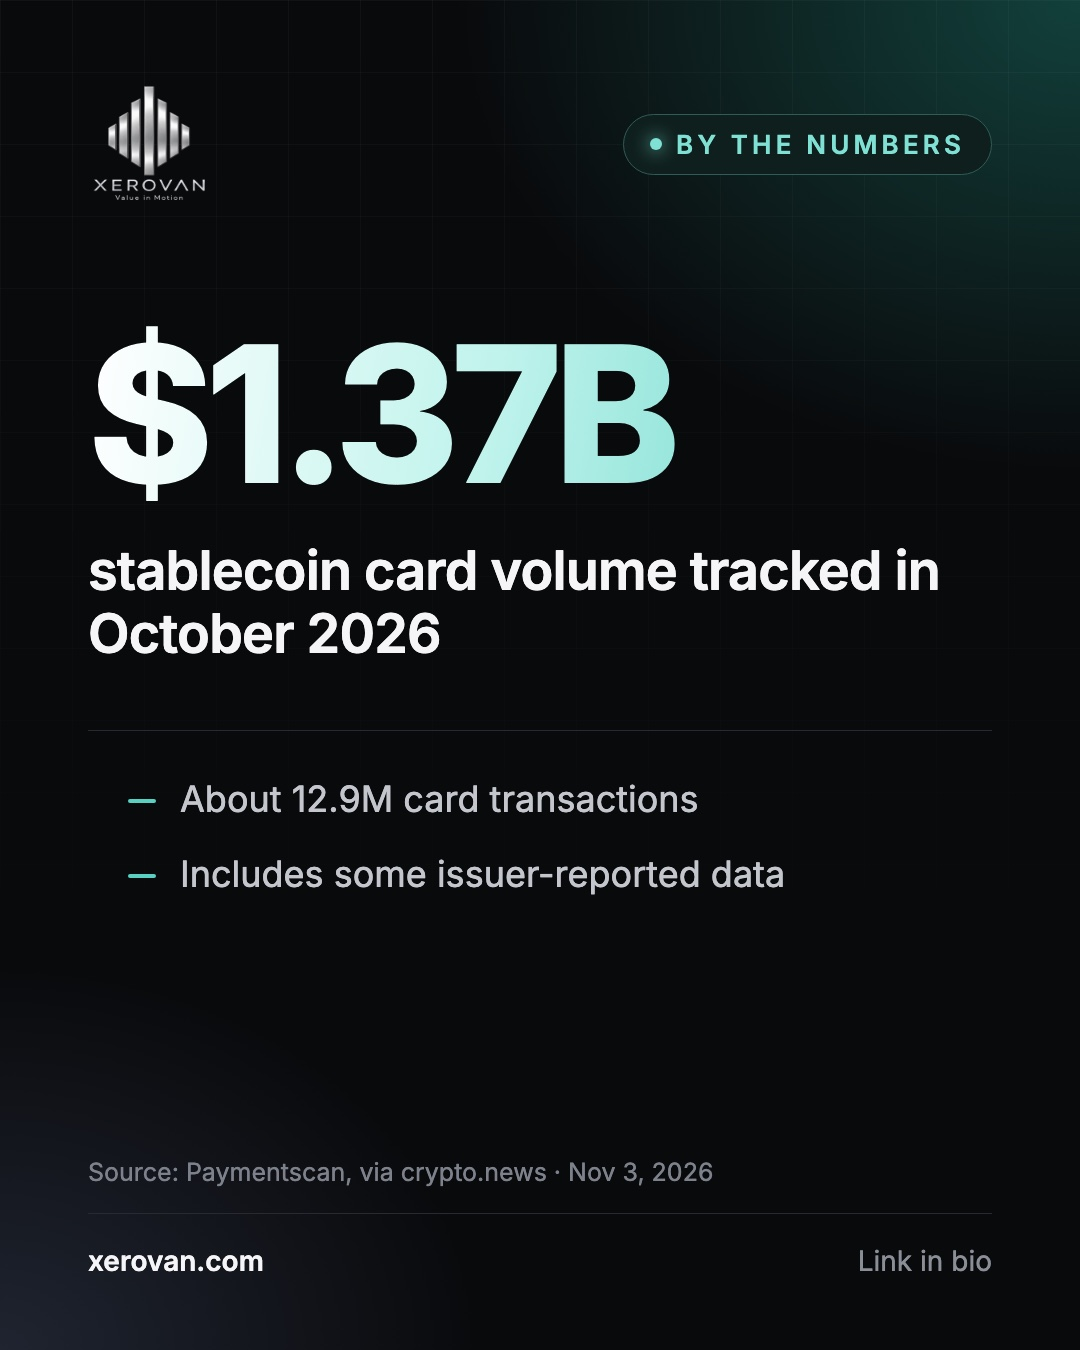
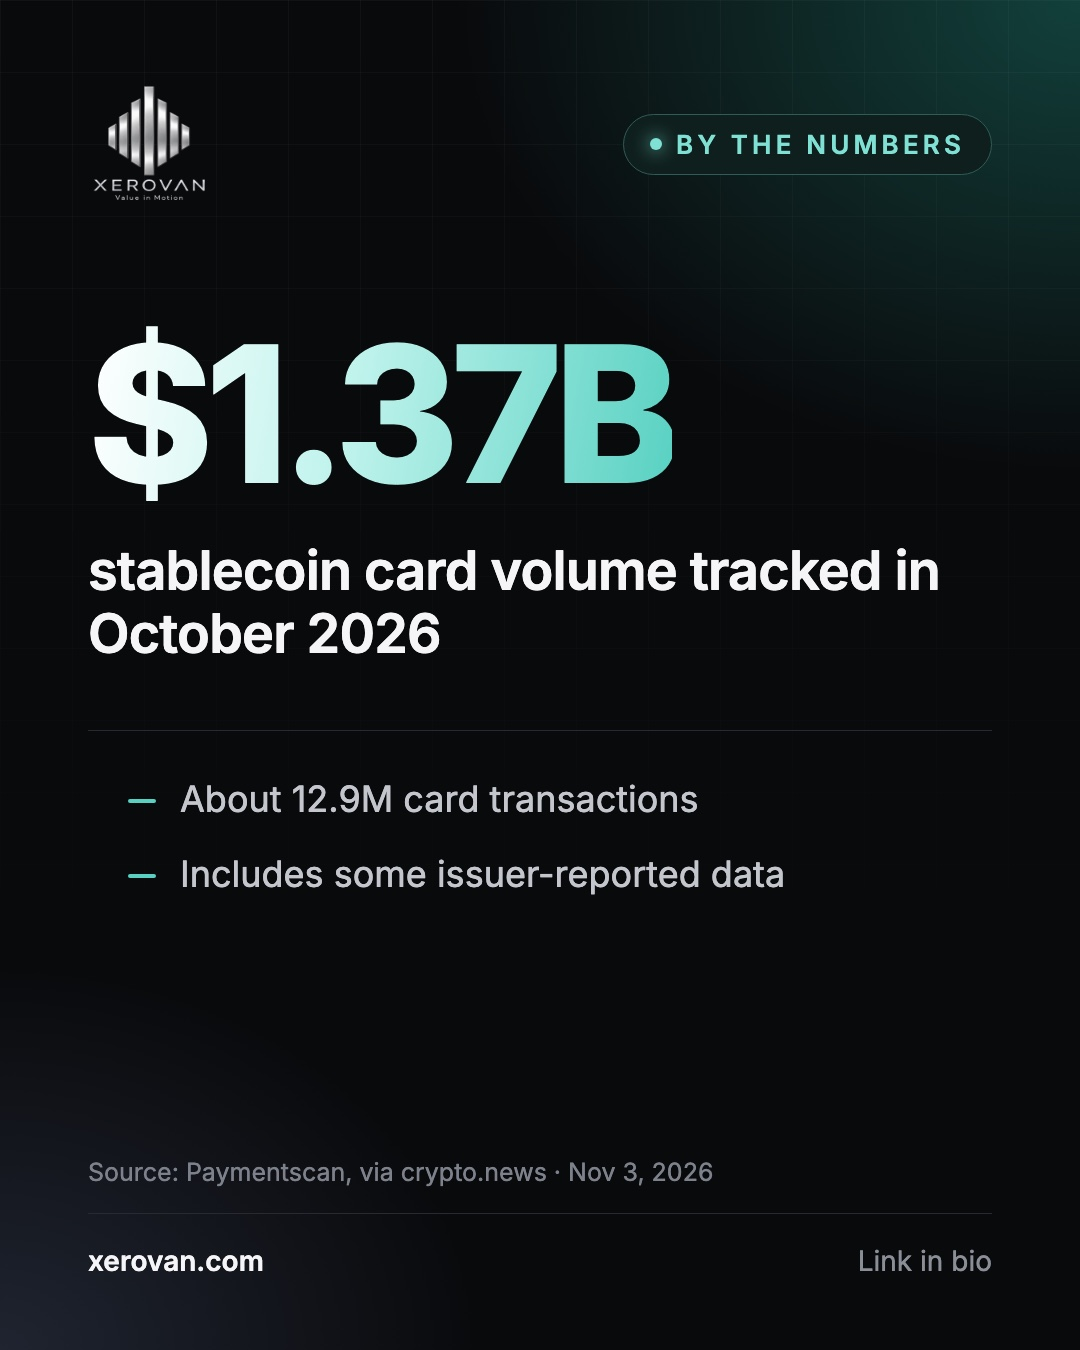
SNS: schedule 4 more news cards (11-21 to 11-25) (#34)
- news_supply (11-21): stablecoin supply ~$284.9B, USDT+USDC ~86% (DeFiLlama, Lookonchain)
- news_hk_bill (11-22): Hong Kong licensing bill before end-2026; 2 of 36 stablecoin issuer licenses (crypto.news)
- news_tron_usdt (11-24): ~$94.2B stablecoins on TRON, USDT ~98% (Crypto Briefing)
- news_bvnk_payouts (11-25): BVNK stablecoin-funded payouts via Mastercard Move, 11 currencies
- Stat gradient now fits the figure width; news cards rebuilt.

Changed region(s): [[0.3361, 0.2489, 0.6417, 0.3733]]

diff --git a/api/_tg_schedule.js b/api/_tg_schedule.js
@@ -65,6 +65,29 @@ Join early access 👉 ${wl('news_usdpt')}
 
 <i>Source: crypto.news (Nov 12)</i>` },
 
+  { date: '2026-11-21', id: 'news_supply', text: `<b>📊 By the numbers</b>
+
+Total stablecoin supply stood at about $284.9B on Nov 16 (DeFiLlama). USDT was about $175.3B and USDC about $69.3B, together roughly 86% of the market.
+
+Supply dipped $4.15B in the week to Nov 15, but the picture is the same: for most people, "stablecoin" means USDT or USDC.
+
+Xerovan cards pay with both, straight from your own wallet 👇
+${U('/en/facts', 'news_supply')}
+
+<i>Sources: DeFiLlama, Lookonchain, via TronWeekly (Nov 16)</i>` },
+
+  { date: '2026-11-22', id: 'news_hk_bill', text: `<b>📰 Asia regulation</b>
+
+Hong Kong will introduce a bill before the end of 2026 to license four more digital-asset activities: dealing, advising, asset management and custody, Financial Secretary Paul Chan said on Nov 16.
+
+On stablecoins, the bar is high: only 2 of 36 applicants received an issuer license in the first round.
+
+Rules for stablecoins are taking shape across Asia. We'll keep tracking what changes for people who hold and spend them.
+
+Get Xerovan updates 👉 ${wl('news_hk_bill')}
+
+<i>Source: crypto.news (Nov 16)</i>` },
+
   { date: '2026-11-23', id: 'w2_compare', text: `Custodial vs wallet-direct crypto cards: what's the difference?
 
 <b>Custodial:</b> you move crypto to the provider. The balance sits in their account until you spend it.
@@ -72,6 +95,28 @@ Join early access 👉 ${wl('news_usdpt')}
 
 Side-by-side comparison 👇
 ${U('/en/solutions/custodial-vs-wallet-direct-crypto-card', 'w2_compare')}` },
+
+  { date: '2026-11-24', id: 'news_tron_usdt', text: `<b>📊 By the numbers</b>
+
+Stablecoins on TRON reached about $94.2B on Nov 9. USDT makes up about $92.2B of that, nearly 98%.
+
+TRON is where much of the world's USDT lives, especially for everyday transfers.
+
+Xerovan supports USDT on TRON, so you can pay by card straight from that balance in your own wallet 👇
+${U('/en/blog/usdt-tron-ethereum-polygon', 'news_tron_usdt')}
+
+<i>Source: Crypto Briefing (Nov 9)</i>` },
+
+  { date: '2026-11-25', id: 'news_bvnk_payouts', text: `<b>📰 Industry news</b>
+
+BVNK launched bank payouts funded from stablecoin balances, delivered through Mastercard Move. It covers 11 currencies at launch, including KRW, PHP, BRL and MXN, with more than 40 planned for 2027.
+
+The gap between stablecoins and everyday money keeps shrinking.
+
+Xerovan closes it at the checkout: your card payment is funded from the USDT/USDC in your own wallet, the moment you pay 👇
+${U('/en/blog/stablecoin-card-payment-flow', 'news_bvnk_payouts')}
+
+<i>Sources: BVNK announcement (Nov 11), via The Paypers and UPay</i>` },
 
   { date: '2026-11-26', id: 'w2_chains', text: `Which networks can fund a Xerovan card payment?
 
@@ -126,6 +171,27 @@ ${U('/en/blog/stablecoin-card-payment-flow', 'g_flow')}` },
 const XU = (path, c) => U(path, c).replace('utm_source=telegram&utm_medium=channel', 'utm_source=x&utm_medium=social');
 const XWL = (c) => wl(c).replace('utm_source=telegram&utm_medium=channel', 'utm_source=x&utm_medium=social');
 const X = {
+  news_supply: `Stablecoin supply: ~$284.9B (DeFiLlama, Nov 16).
+USDT ~$175.3B + USDC ~$69.3B = about 86% of the market.
+
+For most people, "stablecoin" means USDT or USDC. Xerovan cards pay with both, straight from your own wallet.
+
+${XU('/en/facts', 'news_supply')}`,
+  news_hk_bill: `Hong Kong will introduce a bill before end-2026 to license digital-asset dealing, advising, asset management and custody (Paul Chan, Nov 16).
+
+Stablecoin issuers face a high bar: 2 of 36 applicants licensed in round one.
+
+${XWL('news_hk_bill')}`,
+  news_tron_usdt: `Stablecoins on TRON: ~$94.2B (Nov 9). USDT is ~$92.2B of it, nearly 98%.
+
+Xerovan supports USDT on TRON, so you can pay by card straight from that balance in your own wallet.
+
+${XU('/en/blog/usdt-tron-ethereum-polygon', 'news_tron_usdt')}`,
+  news_bvnk_payouts: `BVNK launched stablecoin-funded bank payouts via Mastercard Move: 11 currencies at launch incl. KRW, PHP, BRL, MXN. 40+ planned for 2027.
+
+Xerovan does it at checkout: your card pays from the USDT/USDC in your own wallet.
+
+${XU('/en/blog/stablecoin-card-payment-flow', 'news_bvnk_payouts')}`,
   news_visa_programs: `Visa now has 225+ stablecoin-linked card programs live, and stablecoin settlement running above $25B a year.
 
 Our take: a stablecoin card should pay from your own wallet, not from a balance you top up first.
@@ -207,6 +273,10 @@ ${XU('/en/facts', 'w7_safety')}`,
 };
 // Instagram card copy (taken from the X text above; no new claims).
 const IG = {
+  news_supply: { news: true, tag: 'By the numbers', stat: '86%', statLabel: 'of all stablecoins are USDT or USDC', points: ['Total supply about $284.9B (Nov 16)', 'USDT ~$175.3B · USDC ~$69.3B'], source: 'DeFiLlama, Lookonchain, via TronWeekly · Nov 16, 2026' },
+  news_hk_bill: { news: true, tag: 'Asia regulation', stat: '2 of 36', statLabel: 'applicants won a Hong Kong stablecoin issuer license in round one', points: ['New bill due before the end of 2026', 'Licensing for dealing, advising, asset management and custody'], source: 'crypto.news · Nov 16, 2026' },
+  news_tron_usdt: { news: true, tag: 'By the numbers', stat: '$94.2B', statLabel: 'in stablecoins on TRON', points: ['USDT is about $92.2B of it, nearly 98%', 'Xerovan supports USDT on TRON'], source: 'Crypto Briefing · Nov 9, 2026' },
+  news_bvnk_payouts: { news: true, tag: 'Industry news', stat: '11', statLabel: 'currencies for stablecoin-funded bank payouts via Mastercard Move', points: ['Includes KRW, PHP, BRL and MXN', 'More than 40 currencies planned for 2027'], source: 'BVNK, via The Paypers and UPay · Nov 2026' },
   news_visa_programs: { news: true, tag: 'Industry news', stat: '225+', statLabel: 'stablecoin-linked card programs are live on Visa worldwide', points: ['Stablecoin settlement running above $25B a year', 'About 10x the level of a year earlier'], source: 'Visa, via The Block and crypto.news · Nov 2026' },
   news_card_volume: { news: true, tag: 'By the numbers', stat: '$1.37B', statLabel: 'stablecoin card volume tracked in October 2026', points: ['About 12.9M card transactions', 'Includes some issuer-reported data'], source: 'Paymentscan, via crypto.news · Nov 3, 2026' },
   news_usdpt: { news: true, tag: 'Industry news', stat: 'USDPT', statLabel: 'Western Union’s stablecoin is now a settlement asset on VisaNet', points: ['Issued by Anchorage Digital', 'Eligible partners can settle VisaNet obligations with it'], source: 'crypto.news · Nov 12, 2026' },

diff --git a/tools/ig-cards/build.js b/tools/ig-cards/build.js
@@ -22,7 +22,7 @@ body:before{content:'';position:absolute;inset:0;background-image:linear-gradien
 .top img{height:120px}
 .pill{display:flex;align-items:center;gap:14px;font-size:26px;letter-spacing:.16em;text-transform:uppercase;font-weight:600;color:#7fe0d4;border:1px solid #2f5c57;background:#0f1f1d;padding:14px 26px;border-radius:999px}
 .pill i{width:12px;height:12px;border-radius:50%;background:#7fe0d4;box-shadow:0 0 18px #7fe0d4}
-.stat{margin-top:120px;font-size:${big}px;line-height:.95;font-weight:800;letter-spacing:-.045em;background:linear-gradient(100deg,#ffffff 0%,#bff3ec 45%,#58d1c2 100%);-webkit-background-clip:text;color:transparent;position:relative}
+.stat{display:inline-block;align-self:flex-start;margin-top:120px;font-size:${big}px;line-height:.95;font-weight:800;letter-spacing:-.045em;background:linear-gradient(100deg,#ffffff 0%,#bff3ec 45%,#58d1c2 100%);-webkit-background-clip:text;color:transparent;position:relative}
 .label{margin-top:34px;font-size:54px;line-height:1.18;font-weight:600;letter-spacing:-.015em;max-width:880px;position:relative}
 ul{list-style:none;margin-top:64px;padding-top:44px;border-top:1px solid #262a31;position:relative}
 li{display:flex;gap:24px;align-items:flex-start;font-size:36px;line-height:1.35;color:#c3c6cd;margin-bottom:26px}
